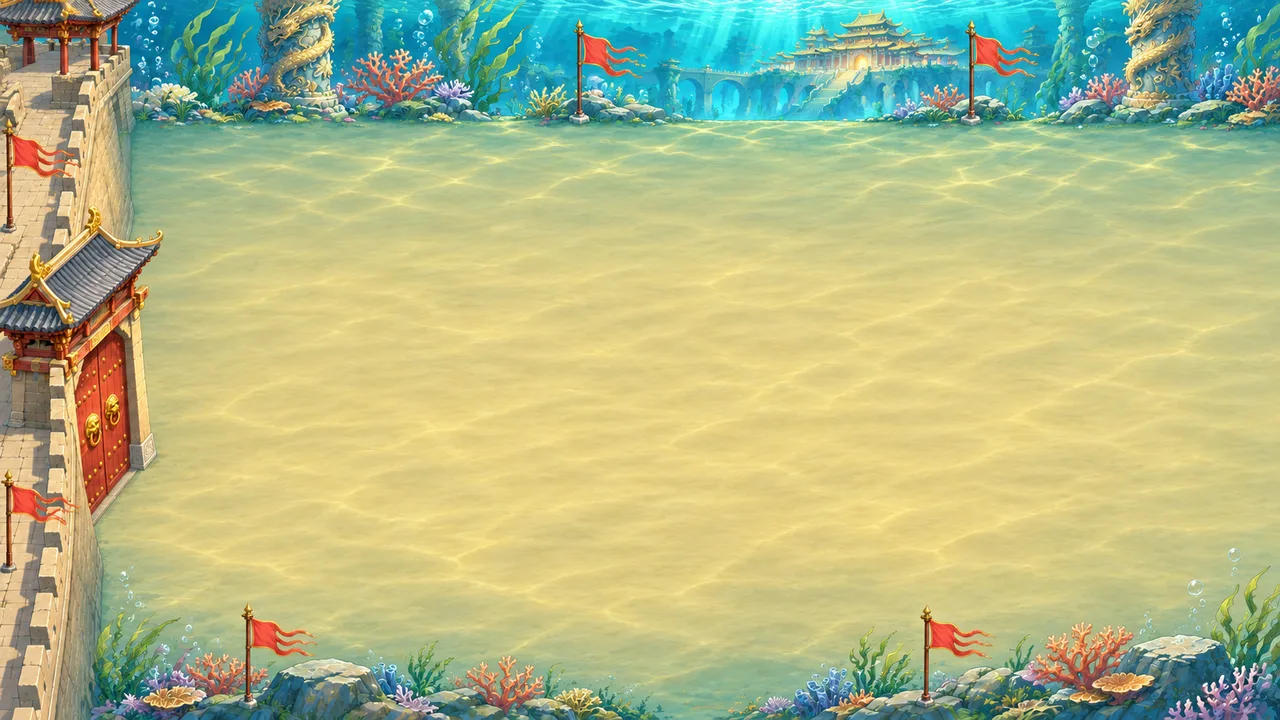
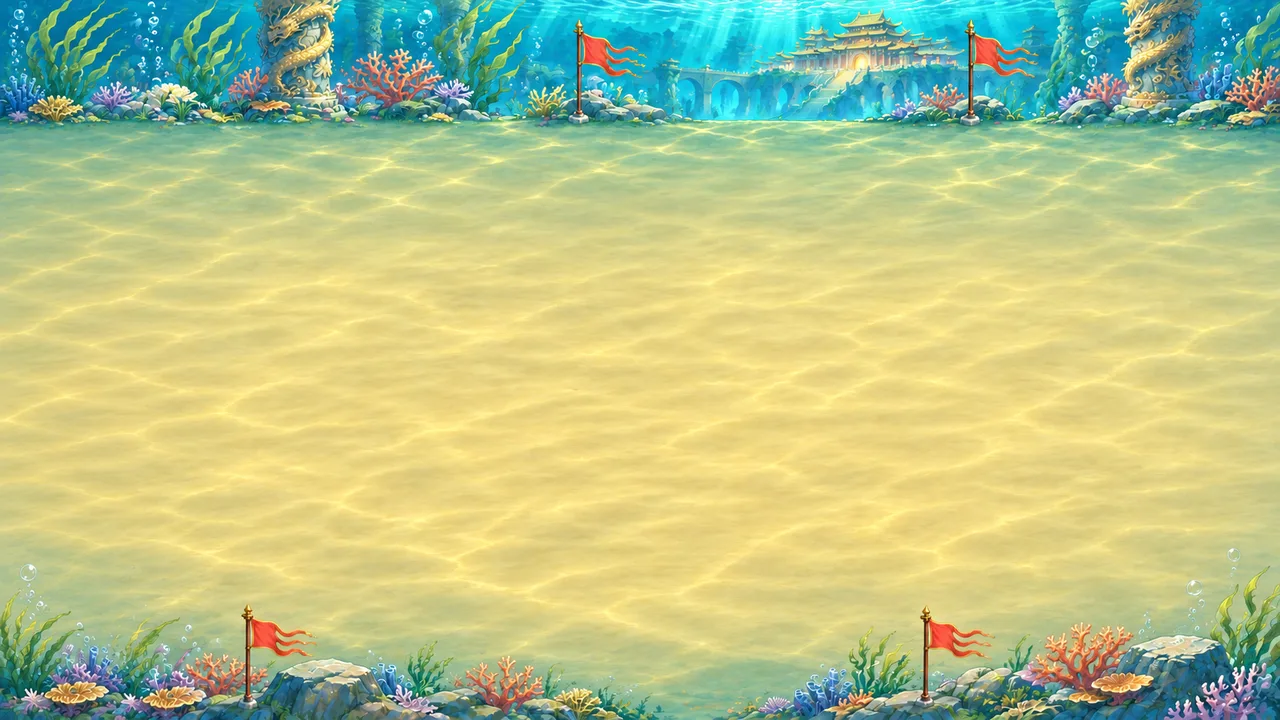
12 nen chuong khong con tuong thanh

diff --git a/index.html b/index.html
@@ -14,24 +14,24 @@
 <link rel="preconnect" href="https://fonts.googleapis.com">
 <link rel="preconnect" href="https://fonts.gstatic.com" crossorigin>
 <link href="https://fonts.googleapis.com/css2?family=Baloo+2:wght@500;600;700;800&display=swap" rel="stylesheet">
-<link rel="stylesheet" href="css/style.css?v=1795322602">
+<link rel="stylesheet" href="css/style.css?v=1795323152">
 </head>
 <body>
 <div id="app">
   <canvas id="game"></canvas>
   <div id="ui"></div>
 </div>
-<script src="js/data.js?v=1795322602"></script><script src="art/enemies/meta.js?v=1795322602"></script><script src="art/poses/hmeta.js?v=1795322602"></script>
-<script src="js/art.js?v=1795322602"></script>
-<script src="art/anim/manifest.js?v=1795322602"></script>
-<script src="js/rig.js?v=1795322602"></script>
-<script src="art/rig/all.js?v=1795322602"></script>
-<script src="js/layered.js?v=1795322602"></script>
-<script src="art/mesh/index.js?v=1795322602"></script>
-<script src="js/meshrig.js?v=1795322602"></script>
-<script src="art/skel/index.js?v=1795322602"></script>
-<script src="js/skel.js?v=1795322602"></script>
-<script src="js/vfx.js?v=1795322602"></script>
-<script src="js/main.js?v=1795322602"></script>
+<script src="js/data.js?v=1795323152"></script><script src="art/enemies/meta.js?v=1795323152"></script><script src="art/poses/hmeta.js?v=1795323152"></script>
+<script src="js/art.js?v=1795323152"></script>
+<script src="art/anim/manifest.js?v=1795323152"></script>
+<script src="js/rig.js?v=1795323152"></script>
+<script src="art/rig/all.js?v=1795323152"></script>
+<script src="js/layered.js?v=1795323152"></script>
+<script src="art/mesh/index.js?v=1795323152"></script>
+<script src="js/meshrig.js?v=1795323152"></script>
+<script src="art/skel/index.js?v=1795323152"></script>
+<script src="js/skel.js?v=1795323152"></script>
+<script src="js/vfx.js?v=1795323152"></script>
+<script src="js/main.js?v=1795323152"></script>
 </body>
 </html>

diff --git a/js/main.js b/js/main.js
@@ -313,7 +313,7 @@ function applyBonuses(u, info) {
   if (pa.dr) u.bonus.dmgTaken += pa.dr;
 }
 
-function chBg(st) { const c = CHAPTERS[st.chap]; if (!c || st.raid) return null; const k = 'ch' + c.id; let i = BGIMG[k]; if (!i) { i = BGIMG[k] = new Image(); i.src = 'art/bg/' + k + '.webp'; } return i; }
+function chBg(st) { const c = CHAPTERS[st.raid ? 6 : st.chap]; if (!c) return null; const k = 'ch' + c.id; let i = BGIMG[k]; if (!i) { i = BGIMG[k] = new Image(); i.src = 'art/bg/' + k + '.webp'; } return i; }
 function startBattle(si) {   // nạp rig + tư thế của đội trước khi vào trận
   const need = S.lineup.filter(id => S.owned[id]);
   const en = stageEnemyIds(typeof si === 'object' ? si : STAGES[si]);
